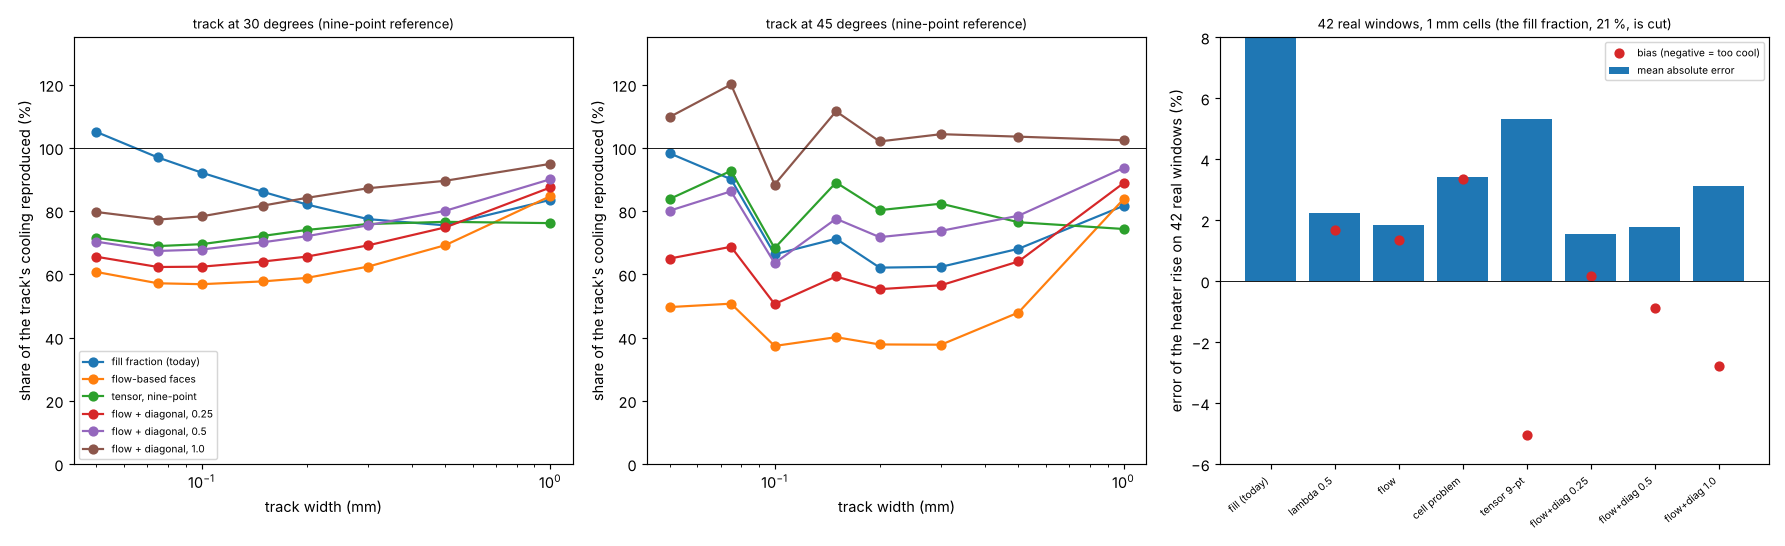
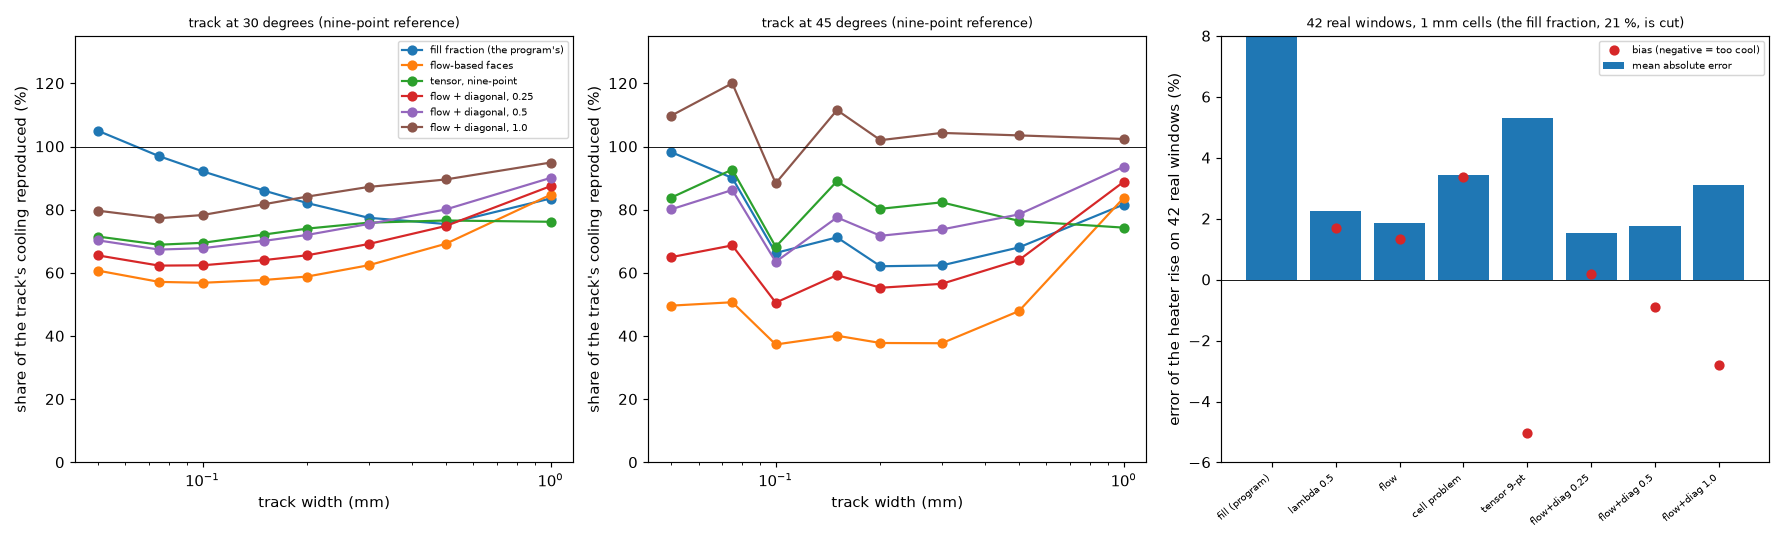
Record the quiet-machine runs of the diagonal and short studies
Studies 4.44, 4.48, 4.50, 4.6 and 4.8 print the same digits; figures 8, 19 and 24 redrawn. Fix the memory unit of bench_mapping_cost.py on macOS and the cost numbers of 4.15.

Claude-Session: https://claude.ai/code/session_01NsfnySABtTnfYfYFzLoyJj

diff --git a/research/gerber-models/scripts/bench_mapping_cost.py b/research/gerber-models/scripts/bench_mapping_cost.py
@@ -8,6 +8,7 @@
 import _bootstrap  # noqa: F401  (puts the import paths of research/gerber-models in order)
 
 import resource
+import sys
 import time
 
 import numpy as np
@@ -42,7 +43,7 @@ def main():
         t = time.time(); cd.map_lambda(blk, 0.5); t_lam = time.time() - t
         t = time.time(); cd.dual_faces(S, n, 0); t_dual = time.time() - t
         t = time.time(); cd.map_cell_problem(blk); t_cell = time.time() - t
-        print(f"{h_mm:6d} x {w_mm:<4d}{h * w:12,d}{t_lam:10.2f}{t_dual:10.1f}{t_cell:16.1f}{resource.getrusage(resource.RUSAGE_SELF).ru_maxrss / 1024:9.0f}", flush=True)
+        print(f"{h_mm:6d} x {w_mm:<4d}{h * w:12,d}{t_lam:10.2f}{t_dual:10.1f}{t_cell:16.1f}{resource.getrusage(resource.RUSAGE_SELF).ru_maxrss / (1024 * 1024 if sys.platform == "darwin" else 1024):9.0f}", flush=True)
 
 
 if __name__ == "__main__":

diff --git a/research/gerber-models/README.md b/research/gerber-models/README.md
@@ -106,7 +106,7 @@ Scripts are run from the repository root with `PYTHONPATH=.` when a copy of the 
 | `scripts/study_diagonal.py` | The nine-point experiment on the tracks and on the 42 windows (4.44; about 15 minutes). |
 | `scripts/study_track_width_angle.py`, `study_boards_matrix.py` | The thinnest track and the angle (4.42); every mapping on eleven boards (4.43). |
 | `scripts/study_fix_impact.py` | The measured impact of the two proposed corrections, one run per variant of the program then `--compare` (4.39). |
-| `scripts/study_diagonal_heldout.py` | The held-out test of the gate (4.50): new windows, an unused board, other cell sizes and other track angles (about 3 hours). |
+| `scripts/study_diagonal_heldout.py` | The held-out test of the gate (4.50): new windows, an unused board, other cell sizes and other track angles (about 5 minutes on a quiet 10-core machine; the 3 hours of the first run were on a loaded one). |
 | `scripts/study_laminate_reference.py` | Review: an independent 3D solver against the program's pixel run and the one-sheet research solver on seven real windows and our IC board (`--nodes`: laminate node count; `--rect`: the rectangle board) (Review R2, R4; about 7 minutes, 8 GB). |
 | `scripts/study_diagonal_gate.py` | A detector of the cells that should get diagonal faces: the share is decided cell by cell from the cell tensor and compared with the fixed shares (4.48). |
 | `scripts/make_figures.py` | Draws the data figures (1 to 12 and 18 to 22) into `figures/`. |
@@ -621,8 +621,8 @@ whose assembly takes the face conductances as given (stage 2 and 3 of `INTEGRATI
 
 ### 4.15 Cost (`bench_mapping_cost.py`)
 
-Per layer, 1 mm cells, 0.1 mm pixels, one core: `lam` 0.00 to 0.02 s; the flow-based faces 0.6 s (200 000 pixels), 1.6 s (480 000), 2.7 s (800 000), 5.5 s (1 600 000 = 100 x 160 mm); the cell problem about the same.
-Peak memory about 830 bytes per pixel (1.3 GB for 1.6 M pixels): a larger board is processed in strips (not implemented here). The cost is paid once, at import, and the result is cached with the project.
+Per layer, 1 mm cells, 0.1 mm pixels, one core, measured on a machine just restarted with nothing else running (macOS arm64, 16 GB, Python 3.13.5): `lam` under 0.01 s; the flow-based faces 0.1 s (200 000 pixels), 0.3 s (480 000), 0.6 s (800 000), 1.1 s (1 600 000 = 100 x 160 mm); the cell problem about the same (0.1 to 1.2 s). The earlier numbers (0.6 to 5.5 s, 830 bytes per pixel) were made on another machine and are not reproduced: here the times are 5 times shorter.
+Peak memory about 1.4 KB per pixel (2.3 GB for 1.6 M pixels; the script printed kilobytes under the heading 'MB' on macOS, where `ru_maxrss` is in bytes, and is corrected): a larger board is processed in strips (not implemented here). The cost is paid once, at import, and the result is cached with the project.
 
 ### 4.16 The Lumped and Analytic models (`study_lumped_analytic.py`)
 
@@ -912,7 +912,7 @@ None of them maps the copper to the cell conductances as above: the mesh project
 
 **Reproduced** (numbers in `README.md`): the ranking of the mappings, the example of Sampson (40 and 0.65 W/m K) and the tile formulas of Blackmore. **Not reproduced**: Sampson's board (its bitmaps are figures; an analogue was built), Blackmore's validation (no measurement, no board). **Not verified**: any comparison with a physical measurement; the licences of the gerbonara test boards (statistics only, no picture of them is kept); the behaviour of the 3D solid at fine cells.
 
-* **Held-out test of the diagonal gate (4.50)**: run in full (60 windows at three cell sizes, 32 tilted tracks), about three hours; the gate did not hold up and the earlier statement of 4.48 was corrected there. The 18 Allegro windows come from a board that was in none of the earlier sets; the other 42 are new places on the old boards.
+* **Held-out test of the diagonal gate (4.50)**: run in full (60 windows at three cell sizes, 32 tilted tracks), first in about three hours and re-run on a quiet machine in about 5 minutes with every table of 4.50 printing the same digits; the gate did not hold up and the earlier statement of 4.48 was corrected there. The 18 Allegro windows come from a board that was in none of the earlier sets; the other 42 are new places on the old boards.
 * **Re-run (all of them now)**: `study_coverage`, `study_coverage_real`, `study_lumped_analytic`, `study_models_self` (with the copy of the program that adds the coverage of abutting zones, as the script says: the FVM, FDM, Lumped, Analytic and 3D solid columns of the second table of 4.27 reproduce to the digit; run on the unmodified program the FDM, Lumped and Analytic columns differ, because the program's union rule distorts a field made of small zones), `study_sampson_boundary`, `study_post_board` (the table of 4.28 reproduces), `study_contrast` (4.7 to the digit), `study_multilayer_real`, `study_patterns_two_layer` (4.11), `study_transient`, `study_import_readers` (4.31, to the digit), `study_raster_error` (4.2, to the digit) and, new, `study_diagonal_gate` (4.48). For `study_coverage`, `study_coverage_real`, `study_lumped_analytic`, `study_multilayer_real`, `study_patterns_two_layer`, `study_sampson_boundary`, `study_transient` and `study_contrast` 78 to 100 % of the numbers with one decimal in the output appear in this README (the others are rows it does not print); `study_models_self` and `study_post_board` were compared by hand with their tables. The two-layer rectangle-board study still differs in the cell-mapping rows when run against the original program (it needs the additive-union copy, as the script says).
 * The two proposed corrections to the program were measured on copies outside the repository; the program's tests that touch zones, the 3D solid, the outline and the stack-up were run on the copies (57 passed, 2 GUI errors for lack of `pytest-qt`), the whole battery was not.
 * The share alpha of the hybrid diagonal faces was chosen on the same 42 windows it is tested on (no held-out set).
@@ -983,7 +983,8 @@ All 24 figures were read. Redrawn from current data and wording: 01 and 02 ("tod
 
 ### R7. What the review did not verify, and the decisions left
 
-* **Not re-run**: `study_diagonal.py`, `study_diagonal_gate.py`, `study_diagonal_heldout.py` (4.44, 4.48, 4.50; research solver, independent of the program; 15 minutes to 3 hours), `study_raster_error.py`, `study_fine_scan.py`, `study_contrast.py`, `study_heater_size.py`, `study_transient.py`, `study_patterns*.py`, `study_coverage*.py`, `study_sampson_boundary.py`, `study_post_board.py` (research solver; the earlier session reports them reproduced, and the five research-solver studies the review ran, 4.4, 4.5, 4.12, 4.13 and 4.42, reproduced to the digit except two ranges of 4.42); `study_import_readers.py` (gerbonara and shapely are not installed in the review's environment; the Stormduino, a two-layer board, did not move in any other run); the whole program battery with the union rule.
+* **Re-run on a quiet machine (the long-run plan of `ROADMAP.md`, section 3)**, a machine just restarted with nothing else running (macOS arm64, 10 cores, 16 GB), logs outside the repository: `study_diagonal.py` (4.44: every table of the tracks and of the 42 windows printed the same digits), `study_diagonal_gate.py` (4.48, same digits; `diagonal_gate.json` written), `study_diagonal_heldout.py` (4.50, same digits), `study_fine_scan.py` (4.6: the minima at p of -0.05 to 0 and lambda 0.5 to 0.6 with average errors of 1.6 to 1.8 %), `study_heater_size.py` (4.8: the rows of the table print the same digits) and `bench_mapping_cost.py` (4.15: times 5 times shorter than the text had, memory 1.4 KB per pixel, corrected). `study_patterns.py` prints the single-layer table, which the README does not quote (4.11 quotes the two-layer one, `study_patterns_two_layer.py`, not re-run): there the flow-based faces with lambda 0.5 are within 0.4 to 3.9 % on every pattern at 0.6, 1.0 and 2.0 mm except the diagonal stripes (6.1 and 5.5 % at 0.6 and 1.0 mm; worst case +13.0 % at pitch 2, fill 0.25, 1 mm), and the geometric mean is +13 to +18 % on the cross-hatch. Figures 8, 19 and 24 were redrawn from the new `out/` files.
+* **Not re-run**: `study_raster_error.py`, `study_contrast.py`, `study_transient.py`, `study_patterns_two_layer.py`, `study_coverage*.py`, `study_sampson_boundary.py`, `study_post_board.py` (research solver; the earlier session reports them reproduced, and the five research-solver studies the review ran, 4.4, 4.5, 4.12, 4.13 and 4.42, reproduced to the digit except two ranges of 4.42); `study_import_readers.py` (gerbonara and shapely are not installed in the review's environment; the Stormduino, a two-layer board, did not move in any other run); the whole program battery with the union rule.
 * **The independent 3D solver** covers one window per board, one heater size and a 0.2 mm mask (not the 0.1 mm of the studies); 4 instead of 8 laminate sub-slabs moves it by 1.2 %, the lateral resolution was not refined.
 * **The per-sample union of 4.39** was re-implemented by the review from the description (the earlier copy was not kept); its numbers agree in kind with the earlier ones.
 * **Decisions for the maintainer**: the default mapping of an import (the faces, the cell problem, lambda 0.5 and the Wiener upper bound are equivalent on the eleven boards); the zone union per sample point (a `fix/` branch); whether the laminate of a one-layer board needs more nodes under patterned copper (two nodes: 5.5 to 13.6 % cool against 3D; eight: 1.9 and 5.3 % on two windows), and whether the 42-window studies should be repeated with the program's network as their reference (`prototype_in_program.py --all` gives the main table).

diff --git a/research/gerber-models/INTEGRATION.md b/research/gerber-models/INTEGRATION.md
@@ -65,7 +65,7 @@ Only where the cell conductances are read, and only when imported copper exists.
 ## 3. Storage and import
 
 * The masks themselves (pixel size, storage in the project file, the reader, the layer assignment, which holes are vias): `research/gerber-import/INTEGRATION.md` section 1. This folder takes the mask of every layer as given.
-* Cost per layer, paid once at import and cached with the project: 0.6 s (200 000 pixels) to 5.5 s (1.6 million = 100 x 160 mm at 0.1 mm) for the flow-based faces; memory about 830 bytes per pixel (strips for larger boards); the quick mode costs 0.02 s.
+* Cost per layer, paid once at import and cached with the project: 0.1 s (200 000 pixels) to 1.1 s (1.6 million = 100 x 160 mm at 0.1 mm) for the flow-based faces on a quiet machine (README 4.15); memory about 1.4 KB per pixel (strips for larger boards); the quick mode costs 0.02 s.
 
 ## 4. Choosing the mapping
 
